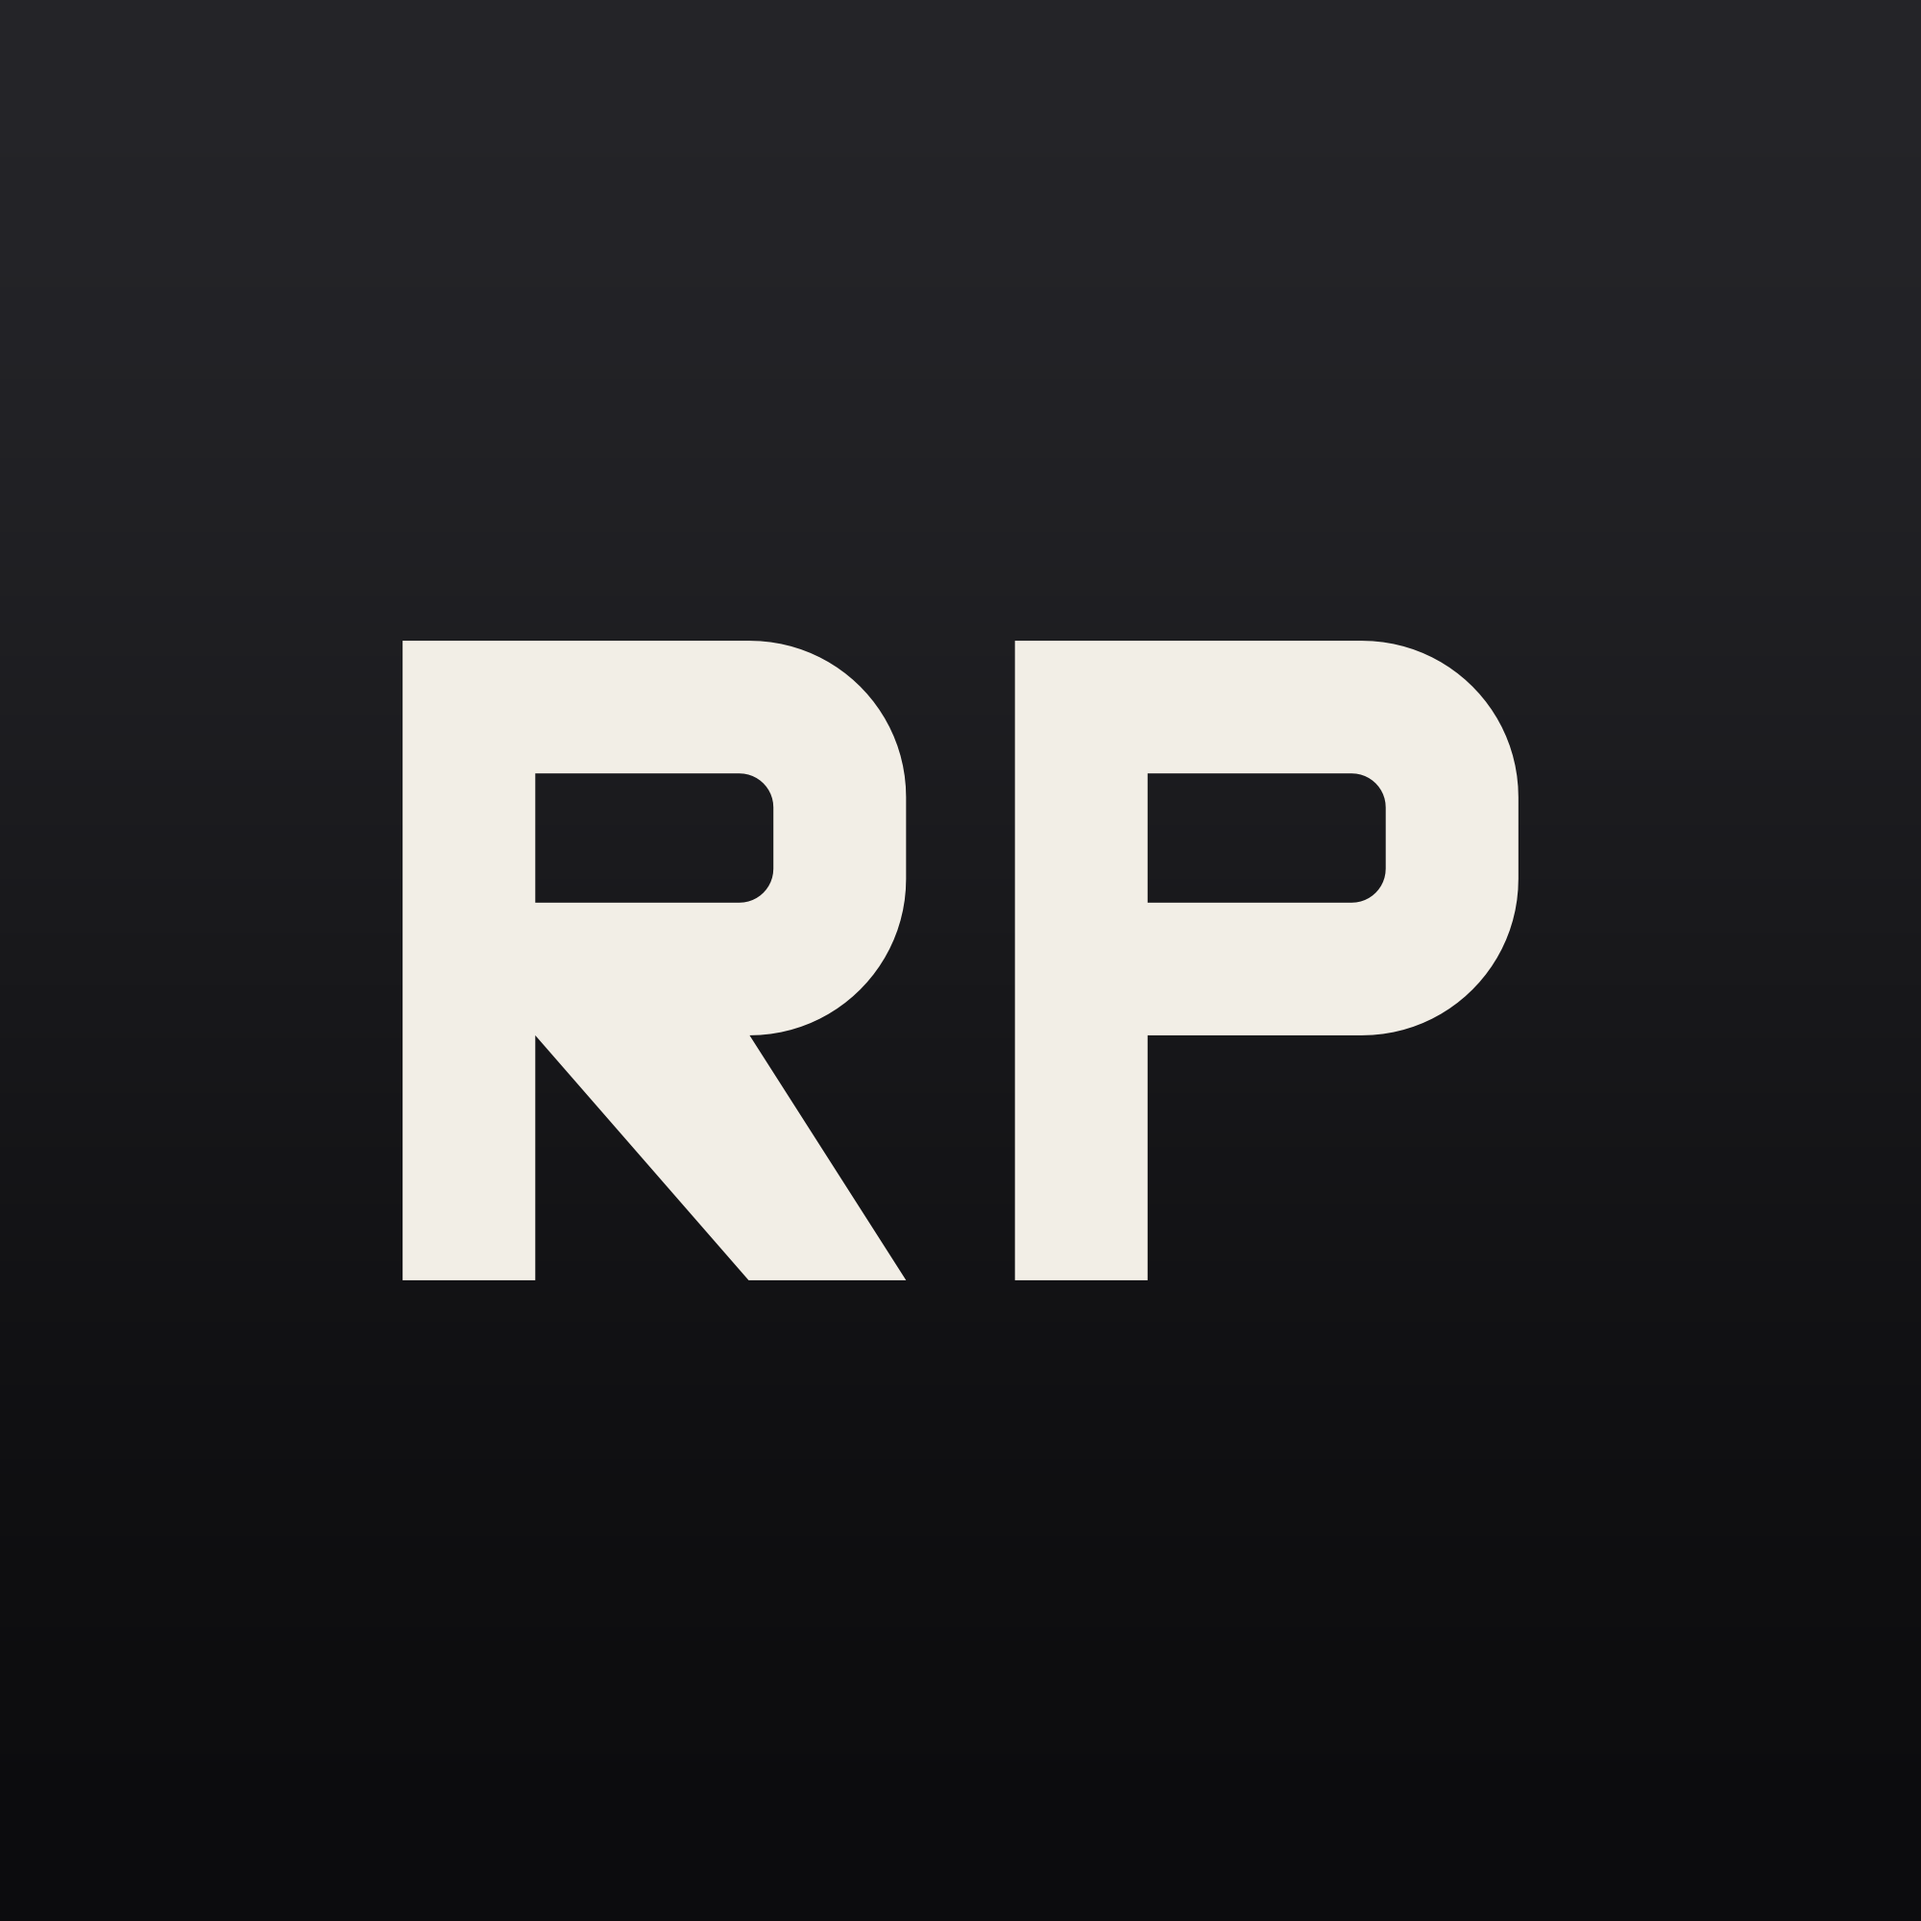
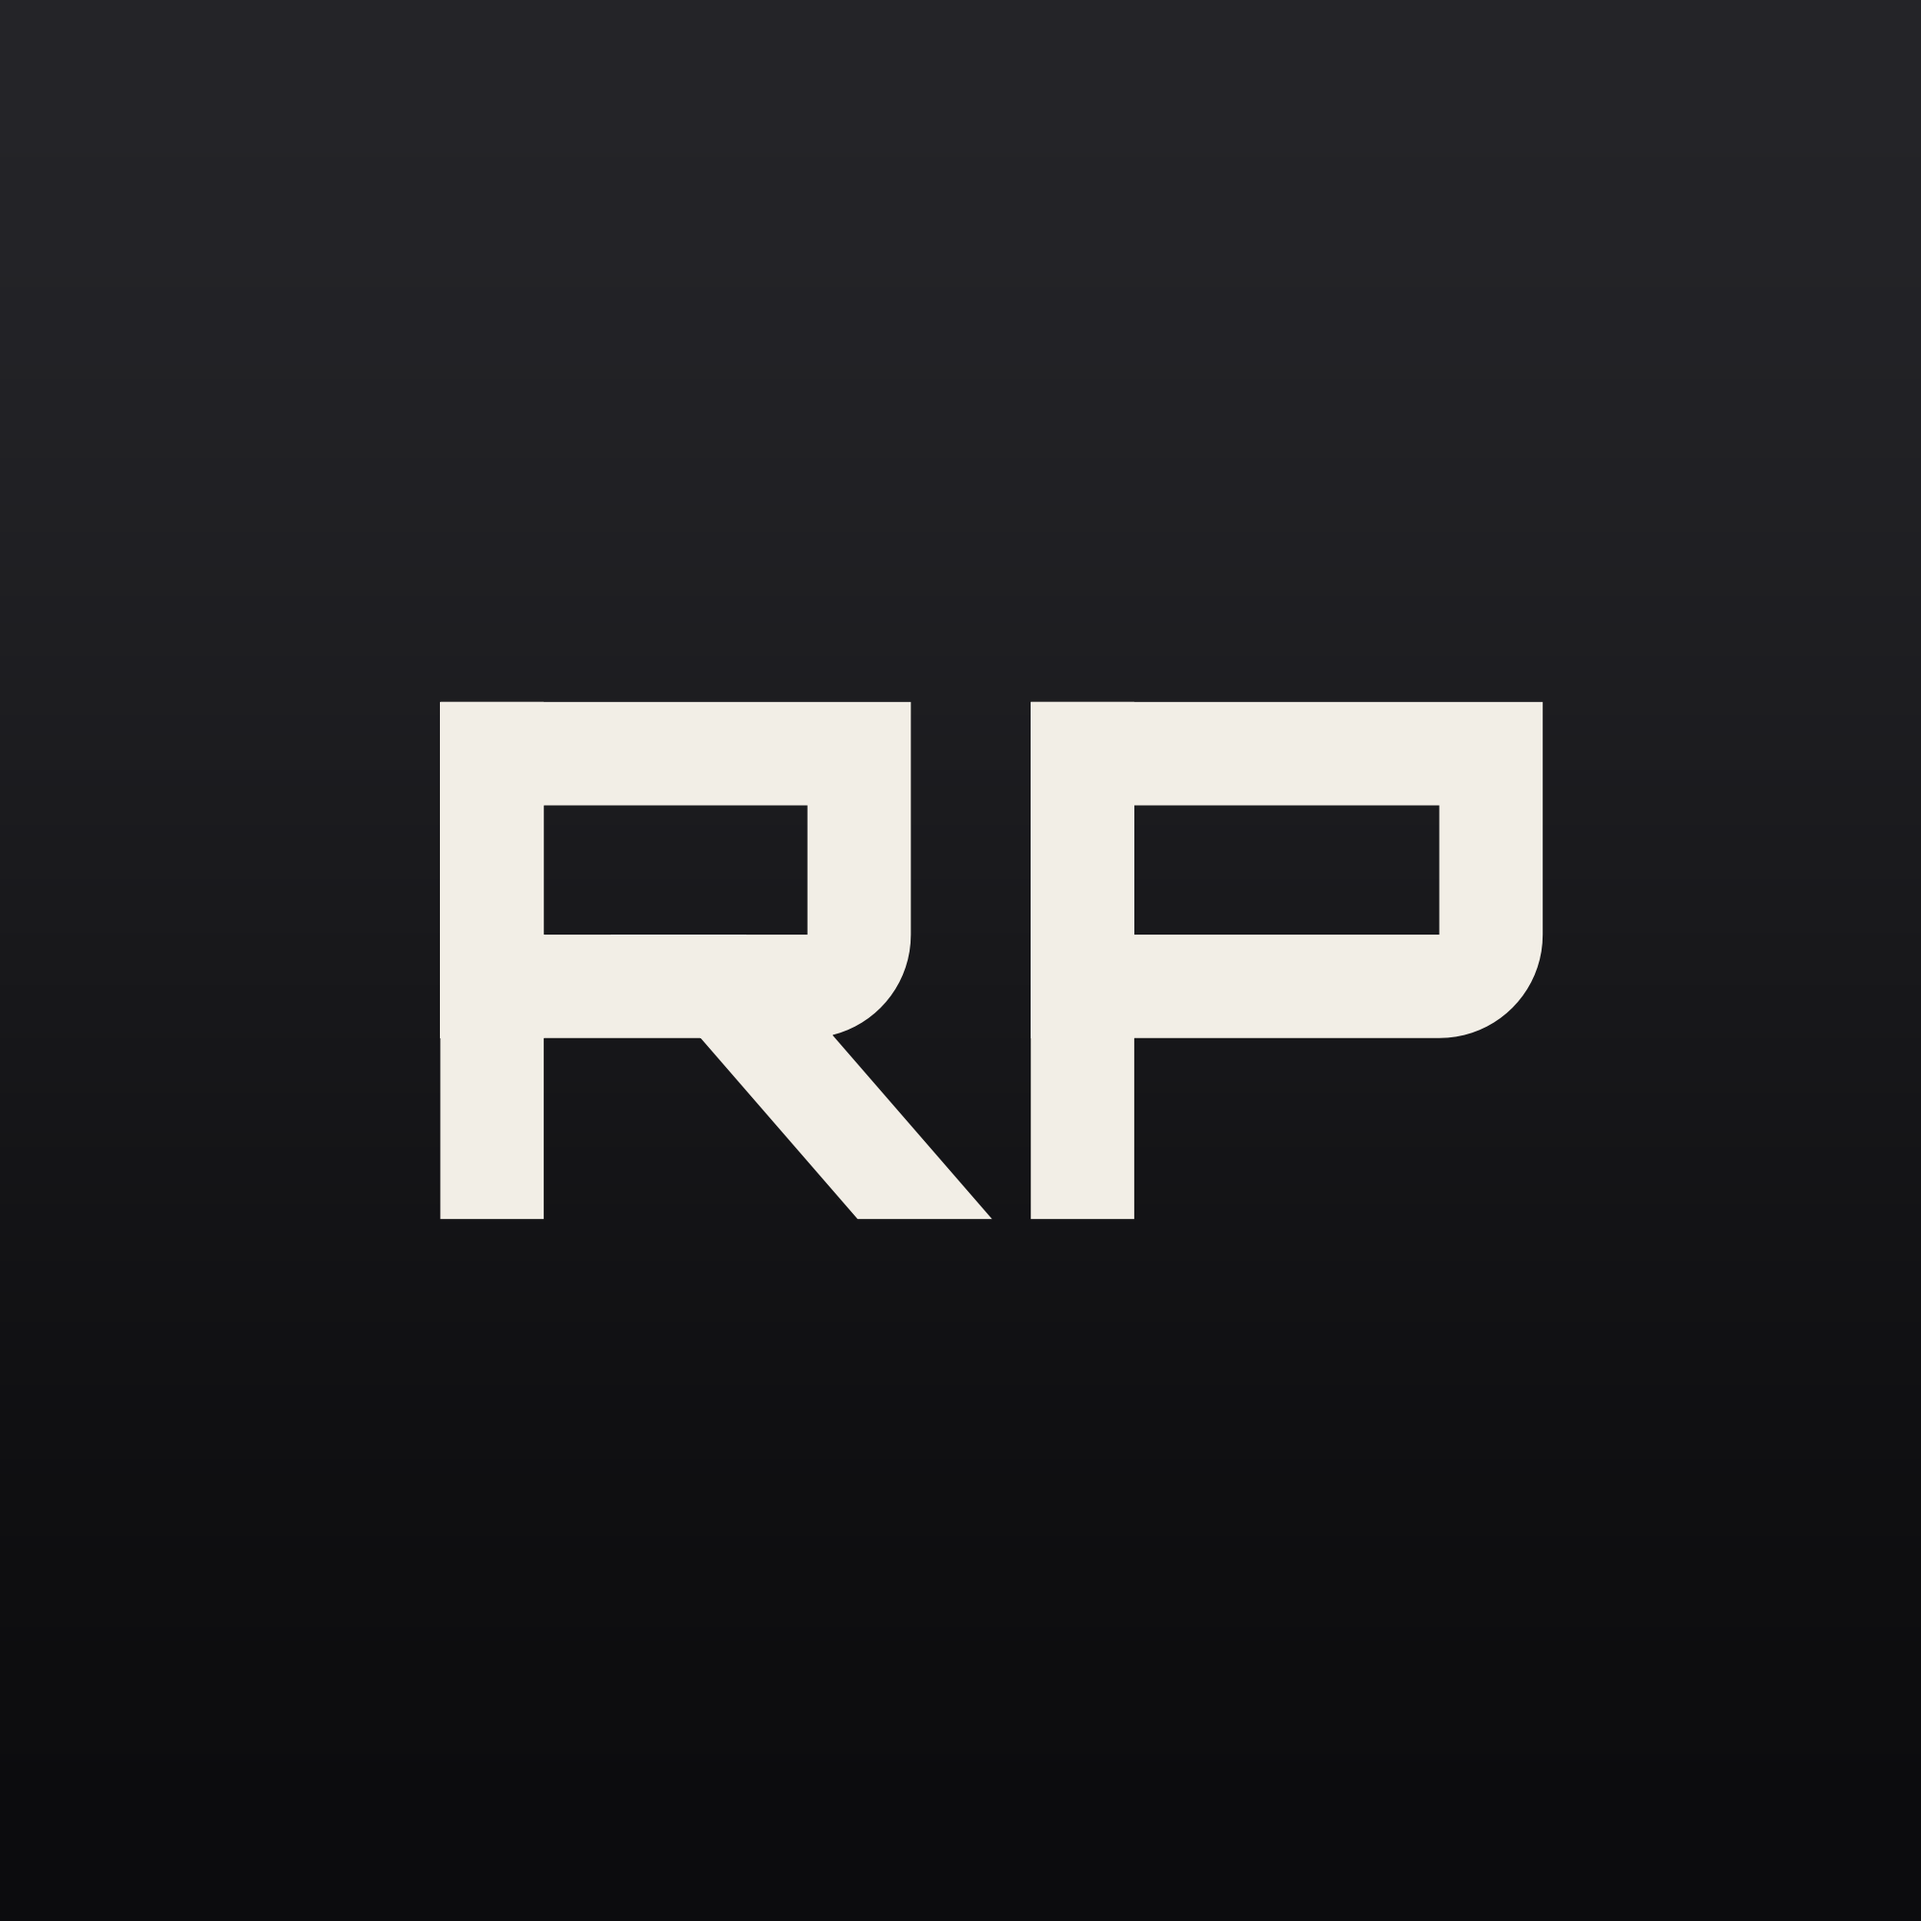
Redraw the RP mark
The letters are measured in letter heights: even strokes, square
shoulders, the bowls' lower right corners rounded and the R's leg
sweeping out beside its stem, nudged right so the pair looks centred.
The app icon and branding/ are drawn again from it.

diff --git a/crates/desktop/src/logo.rs b/crates/desktop/src/logo.rs
@@ -1,8 +1,12 @@
-//! The app's mark: the letters RP, wide and square-shouldered, drawn from
-//! their outline at whatever size is asked for, in one colour, through the
-//! glyph atlas ([`crate::paint::Painter::logo`]): the mark costs what a
-//! letter costs. The app icon is this mark on a dark tile (the `icon` test
-//! in `chat/snapshot.rs` draws it).
+//! The app's mark: the letters RP in a wide, square-shouldered face, drawn
+//! from their outline at whatever size is asked for, in one colour,
+//! through the glyph atlas ([`crate::paint::Painter::logo`]): the mark
+//! costs what a letter costs. The app icon is this mark on a dark tile (the
+//! `icon` test in `chat/snapshot.rs` draws it).
+//!
+//! The letters are measured in letter heights: a stem and bowl of even
+//! strokes, square on top, the bowl's lower right corner rounded, and the
+//! R's leg sweeping out from beside its stem.
 
 use ttf_parser::OutlineBuilder;
 
@@ -10,69 +14,78 @@ use crate::raster::{self, Bitmap};
 
 /// The side of the square the outline is drawn on.
 const BOX: f32 = 24.0;
-/// Width and height of a letter.
-const LETTER: (f32, f32) = (7.4, 9.4);
+/// How tall the letters stand on that square.
+const HEIGHT: f32 = 7.6;
+/// Thickness of every stroke.
+const STROKE: f32 = 0.2;
+/// Height of a bowl, its strokes included.
+const BOWL: f32 = 0.65;
+/// Radius of a bowl's rounded lower right corner.
+const ROUND: f32 = 0.2;
+/// Width of the R's bowl, and of the whole R to the end of its leg.
+const R: (f32, f32) = (0.91, 1.067);
+/// Where the R's leg leaves the bowl, beside the stem, and how thick it runs.
+const LEG: (f32, f32) = (0.33, 0.26);
+/// Width of the P.
+const P: f32 = 0.99;
 /// Space between the letters.
-const SPACE: f32 = 1.6;
-/// Thickness of a letter's strokes.
-const STROKE: f32 = 1.95;
-/// Height of a letter's bowl, strokes included.
-const BOWL: f32 = 5.8;
-/// Radius of the bowl's outer corners.
-const ROUND: f32 = 2.3;
+const SPACE: f32 = 0.075;
+/// How far right of centre the letters sit, in letter heights: the R
+/// carries more ink than the P, whose right side is open under its bowl,
+/// so centring the box alone leaves them looking pushed left.
+const NUDGE: f32 = 0.06;
 
 /// The mark's coverage on a square `px` pixels a side: a bitmap placed
 /// relative to the square's bottom-left corner, y up, as a glyph's is to
 /// its pen. `None` if it has no ink at that size.
 #[must_use]
 pub fn rasterize(px: f32) -> Option<Bitmap> {
-    raster::rasterize_outline(px / BOX, |sink| {
-        let left = (BOX - 2.0 * LETTER.0 - SPACE) * 0.5;
-        letter(sink, left, true);
-        letter(sink, left + LETTER.0 + SPACE, false);
-    })
+    raster::rasterize_outline(px / BOX, draw)
 }
 
-/// Draws a P whose left edge is at `x` into `sink`, or with `leg` an R: a
-/// stem, a bowl with round shoulders, and the slit inside it.
-fn letter(sink: &mut dyn OutlineBuilder, x: f32, leg: bool) {
-    let (w, h) = LETTER;
-    let top = (BOX - h) * 0.5;
-    // Points are given from the letter's top-left corner, y down; the sink wants y up.
-    let at = |dx: f32, dy: f32| (x + dx, BOX - top - dy);
-    let line = |sink: &mut dyn OutlineBuilder, dx: f32, dy: f32| sink.line_to(at(dx, dy).0, at(dx, dy).1);
-    // A quarter turn from `from` round `corner` to `to`.
-    let turn = |sink: &mut dyn OutlineBuilder, from: (f32, f32), corner: (f32, f32), to: (f32, f32)| {
-        let toward = |a: (f32, f32)| at(a.0 + (corner.0 - a.0) * 0.5523, a.1 + (corner.1 - a.1) * 0.5523);
-        let ((c1, c2), end) = ((toward(from), toward(to)), at(to.0, to.1));
-        sink.curve_to(c1.0, c1.1, c2.0, c2.1, end.0, end.1);
-    };
-
-    sink.move_to(at(0.0, 0.0).0, at(0.0, 0.0).1);
-    line(sink, w - ROUND, 0.0);
-    turn(sink, (w - ROUND, 0.0), (w, 0.0), (w, ROUND));
-    line(sink, w, BOWL - ROUND);
-    turn(sink, (w, BOWL - ROUND), (w, BOWL), (w - ROUND, BOWL));
-    if leg {
-        // The leg leaves the bowl's corner for the baseline, as thick as a stroke.
-        let run = (h - BOWL).hypot(ROUND);
-        let across = STROKE * run / (h - BOWL);
-        line(sink, w, h);
-        line(sink, w - across, h);
+/// Draws the mark into `sink`, in the square's units, y up.
+fn draw(sink: &mut dyn OutlineBuilder) {
+    let width = R.1 + SPACE + P;
+    let left = (BOX - width * HEIGHT) * 0.5 + NUDGE * HEIGHT;
+    let top = (BOX - HEIGHT) * 0.5;
+    // A letter's corner `(x, y)`, in letter heights from its top left, y
+    // down, as the sink takes it.
+    let at = |origin: f32, (x, y): (f32, f32)| (left + (origin + x) * HEIGHT, BOX - top - y * HEIGHT);
+    for (origin, bowl, leg) in [(0.0, R.0, true), (R.1 + SPACE, P, false)] {
+        let at = |point| at(origin, point);
+        // The stem.
+        shape(sink, &[at((0.0, 0.0)), at((STROKE, 0.0)), at((STROKE, 1.0)), at((0.0, 1.0))]);
+        // The bowl, its lower right corner turning a quarter circle.
+        let (corner, below) = (at((bowl, BOWL - ROUND)), at((bowl - ROUND, BOWL)));
+        let k = 0.5523 * ROUND * HEIGHT;
+        let start = at((0.0, 0.0));
+        sink.move_to(start.0, start.1);
+        let right = at((bowl, 0.0));
+        sink.line_to(right.0, right.1);
+        sink.line_to(corner.0, corner.1);
+        sink.curve_to(corner.0, corner.1 - k, below.0 + k, below.1, below.0, below.1);
+        let end = at((0.0, BOWL));
+        sink.line_to(end.0, end.1);
+        sink.close();
+        // The slit inside it, wound the other way so it is cut out.
+        let (inner, floor) = (bowl - STROKE, BOWL - STROKE);
+        shape(sink, &[at((STROKE, STROKE)), at((STROKE, floor)), at((inner, floor)), at((inner, STROKE))]);
+        if leg {
+            // From the floor of the slit, beside the stem, out to the R's full width.
+            let (from, thick) = LEG;
+            let floor = BOWL - STROKE;
+            shape(sink, &[at((from, floor)), at((from + thick, floor)), at((R.1, 1.0)), at((R.1 - thick, 1.0))]);
+        }
     }
-    line(sink, STROKE, BOWL);
-    line(sink, STROKE, h);
-    line(sink, 0.0, h);
-    sink.close();
+}
 
-    // The slit, wound the other way so it is cut out.
-    let (right, bottom, inner) = (w - STROKE, BOWL - STROKE, 0.5);
-    sink.move_to(at(STROKE, STROKE).0, at(STROKE, STROKE).1);
-    line(sink, STROKE, bottom);
-    line(sink, right - inner, bottom);
-    turn(sink, (right - inner, bottom), (right, bottom), (right, bottom - inner));
-    line(sink, right, STROKE + inner);
-    turn(sink, (right, STROKE + inner), (right, STROKE), (right - inner, STROKE));
+/// A closed polygon through `points`, in order.
+fn shape(sink: &mut dyn OutlineBuilder, points: &[(f32, f32)]) {
+    let Some((first, rest)) = points.split_first() else { return };
+    sink.move_to(first.0, first.1);
+    for point in rest {
+        sink.line_to(point.0, point.1);
+    }
     sink.close();
 }
 
@@ -81,15 +94,28 @@ mod tests {
     use super::*;
 
     #[test]
-    fn the_mark_draws_inside_its_square() {
+    fn the_mark_draws_inside_its_square_with_even_margins() {
         for px in [16.0_f32, 22.0, 64.0, 256.0] {
             let bitmap = rasterize(px).expect("the mark has ink");
             let ink = bitmap.data.iter().map(|coverage| f32::from(*coverage) / 255.0).sum::<f32>() / (px * px);
-            // Two letters of strokes: a fifth of the square, give or take, and the slits are cut out.
-            assert!((0.12..0.3).contains(&ink), "inks {ink} of a {px} square");
+            assert!((0.06..0.2).contains(&ink), "inks {ink} of a {px} square");
             let (right, top) = (bitmap.xmin + bitmap.w as i32, bitmap.ymin + bitmap.h as i32);
             let side = px as i32;
             assert!(bitmap.xmin >= 0 && bitmap.ymin >= 0 && right <= side && top <= side, "leaves its square");
         }
+        // At full size: as much room above as below, and the ink's weight
+        // within a pixel or two of the middle.
+        let bitmap = rasterize(256.0).expect("the mark has ink");
+        let below = bitmap.ymin;
+        let above = 256 - (bitmap.ymin + bitmap.h as i32);
+        assert!((above - below).abs() <= 1, "{above} above, {below} below");
+        let (mut mass, mut moment) = (0.0, 0.0);
+        for (i, coverage) in bitmap.data.iter().enumerate() {
+            let coverage = f32::from(*coverage);
+            mass += coverage;
+            moment += coverage * (bitmap.xmin as f32 + (i % bitmap.w as usize) as f32 + 0.5);
+        }
+        let centre = moment / mass;
+        assert!((centre - 128.0).abs() < 3.0, "the ink's weight sits at {centre}");
     }
 }
